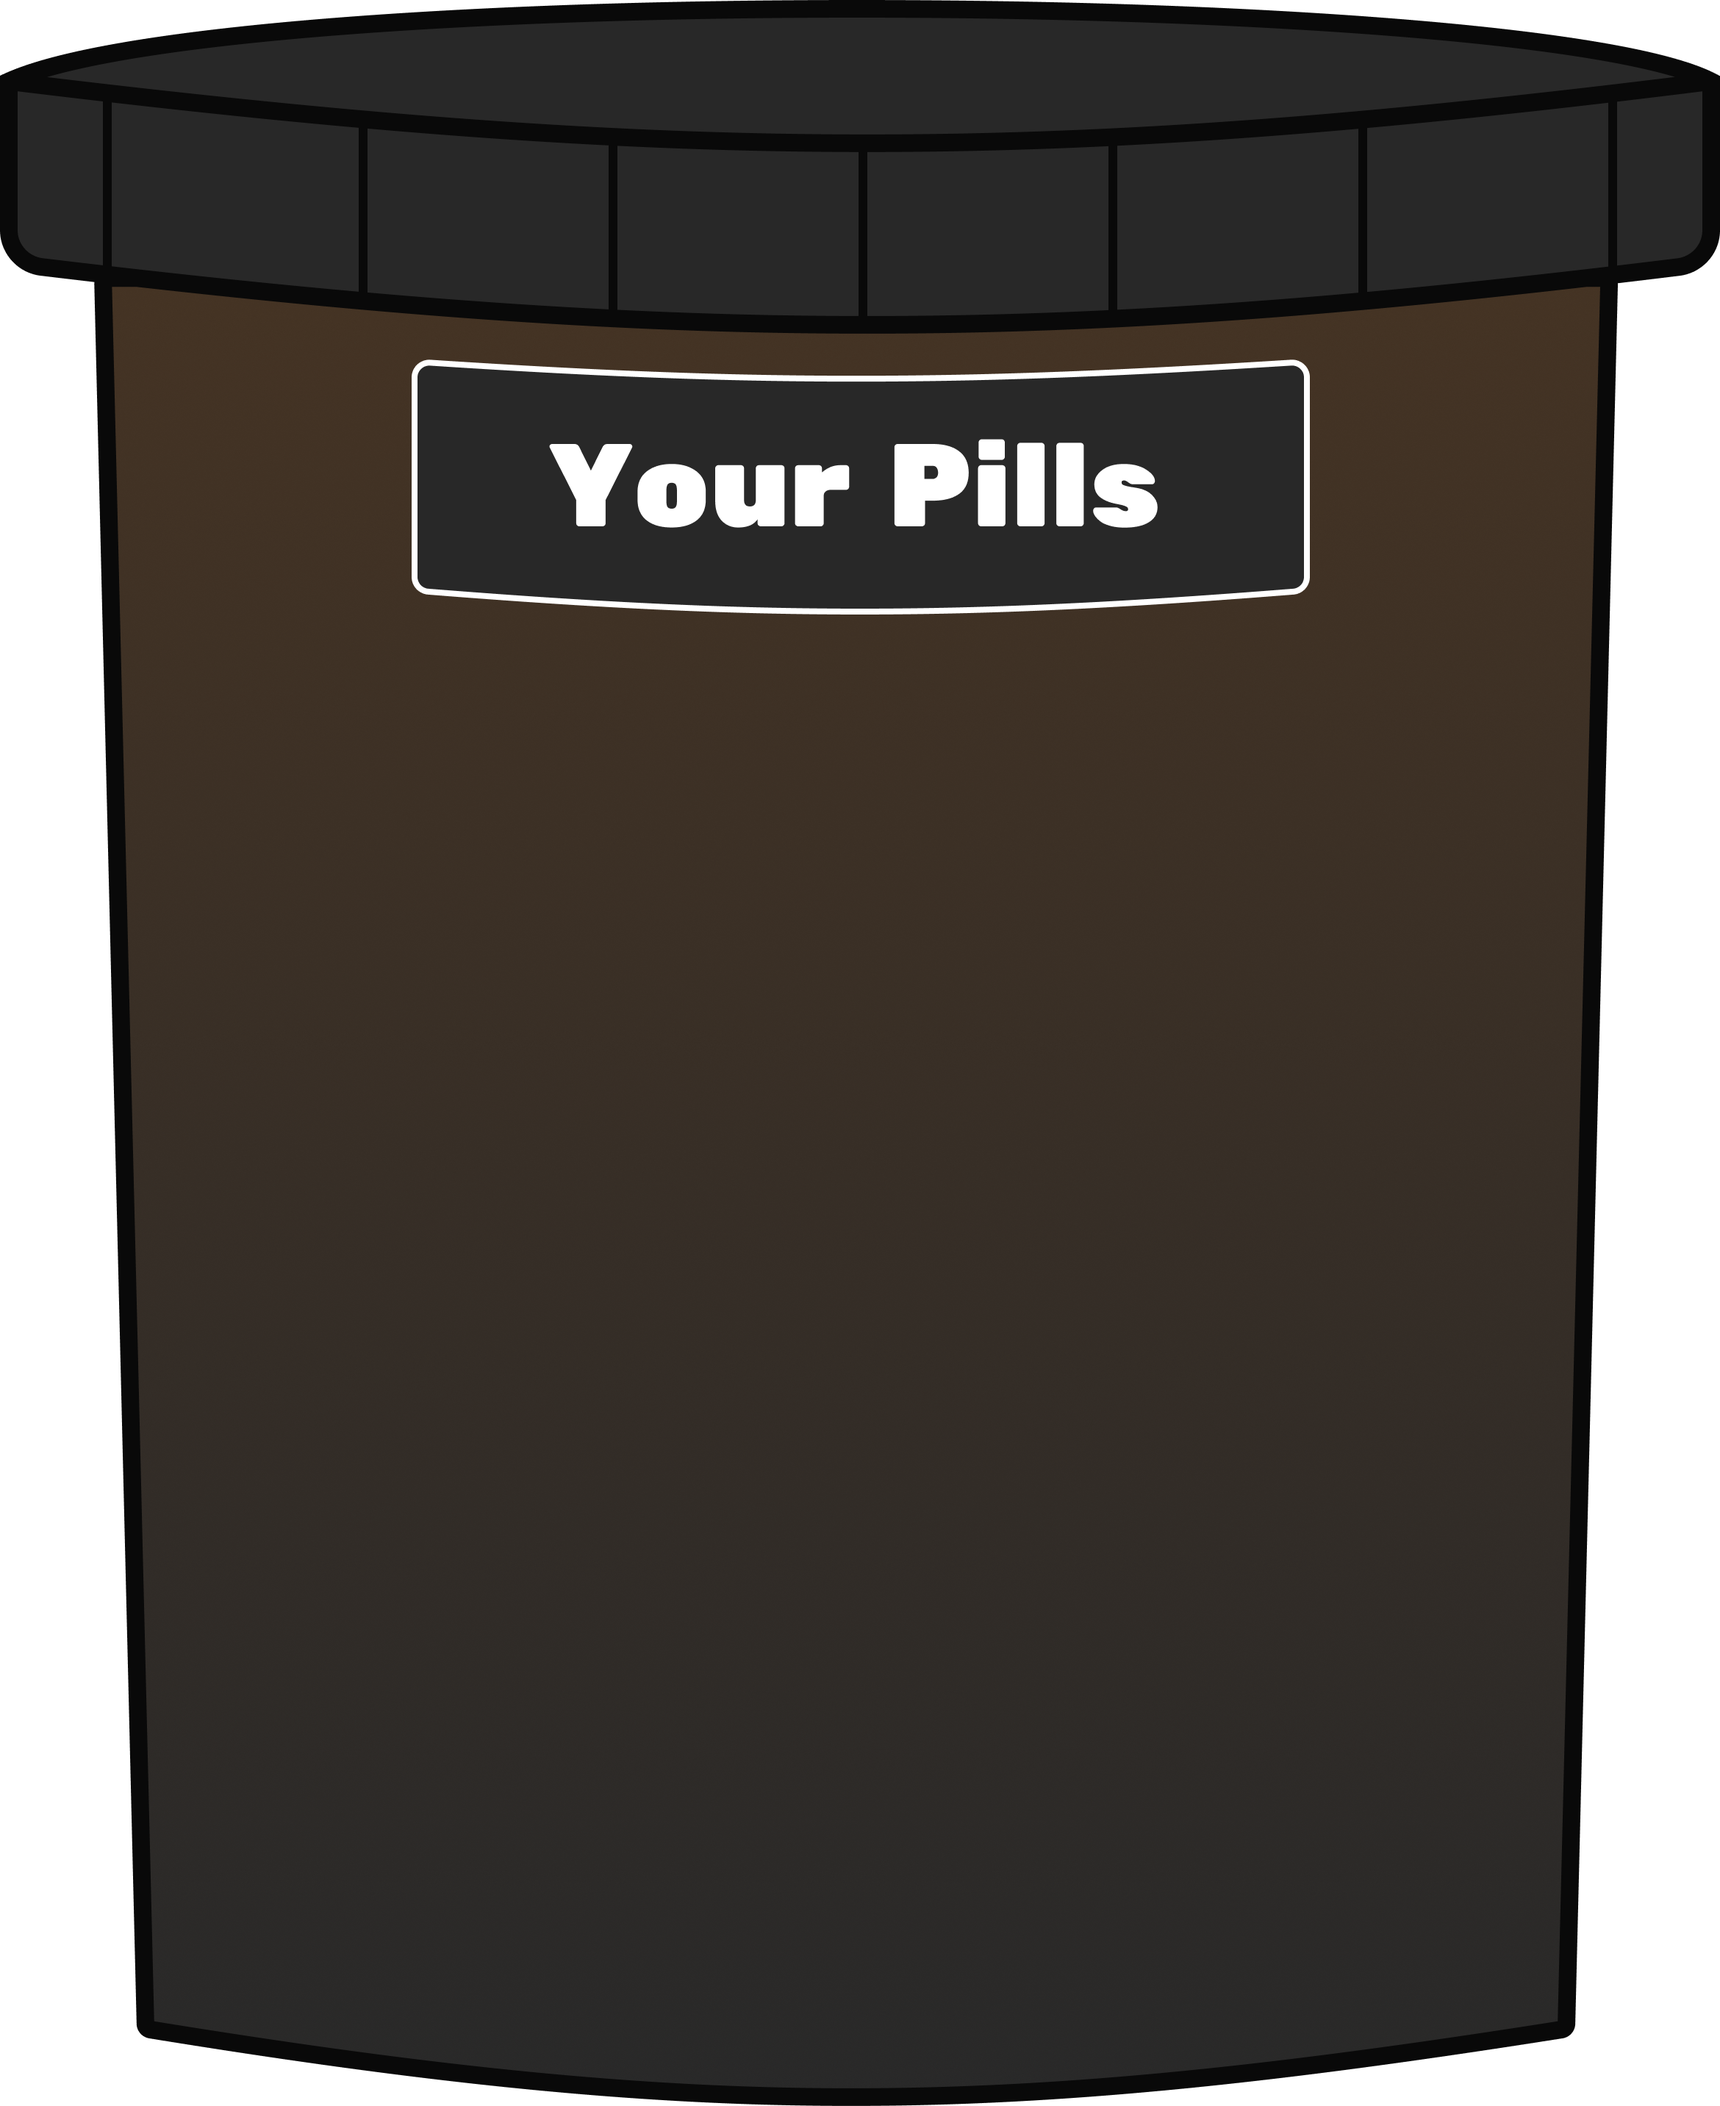
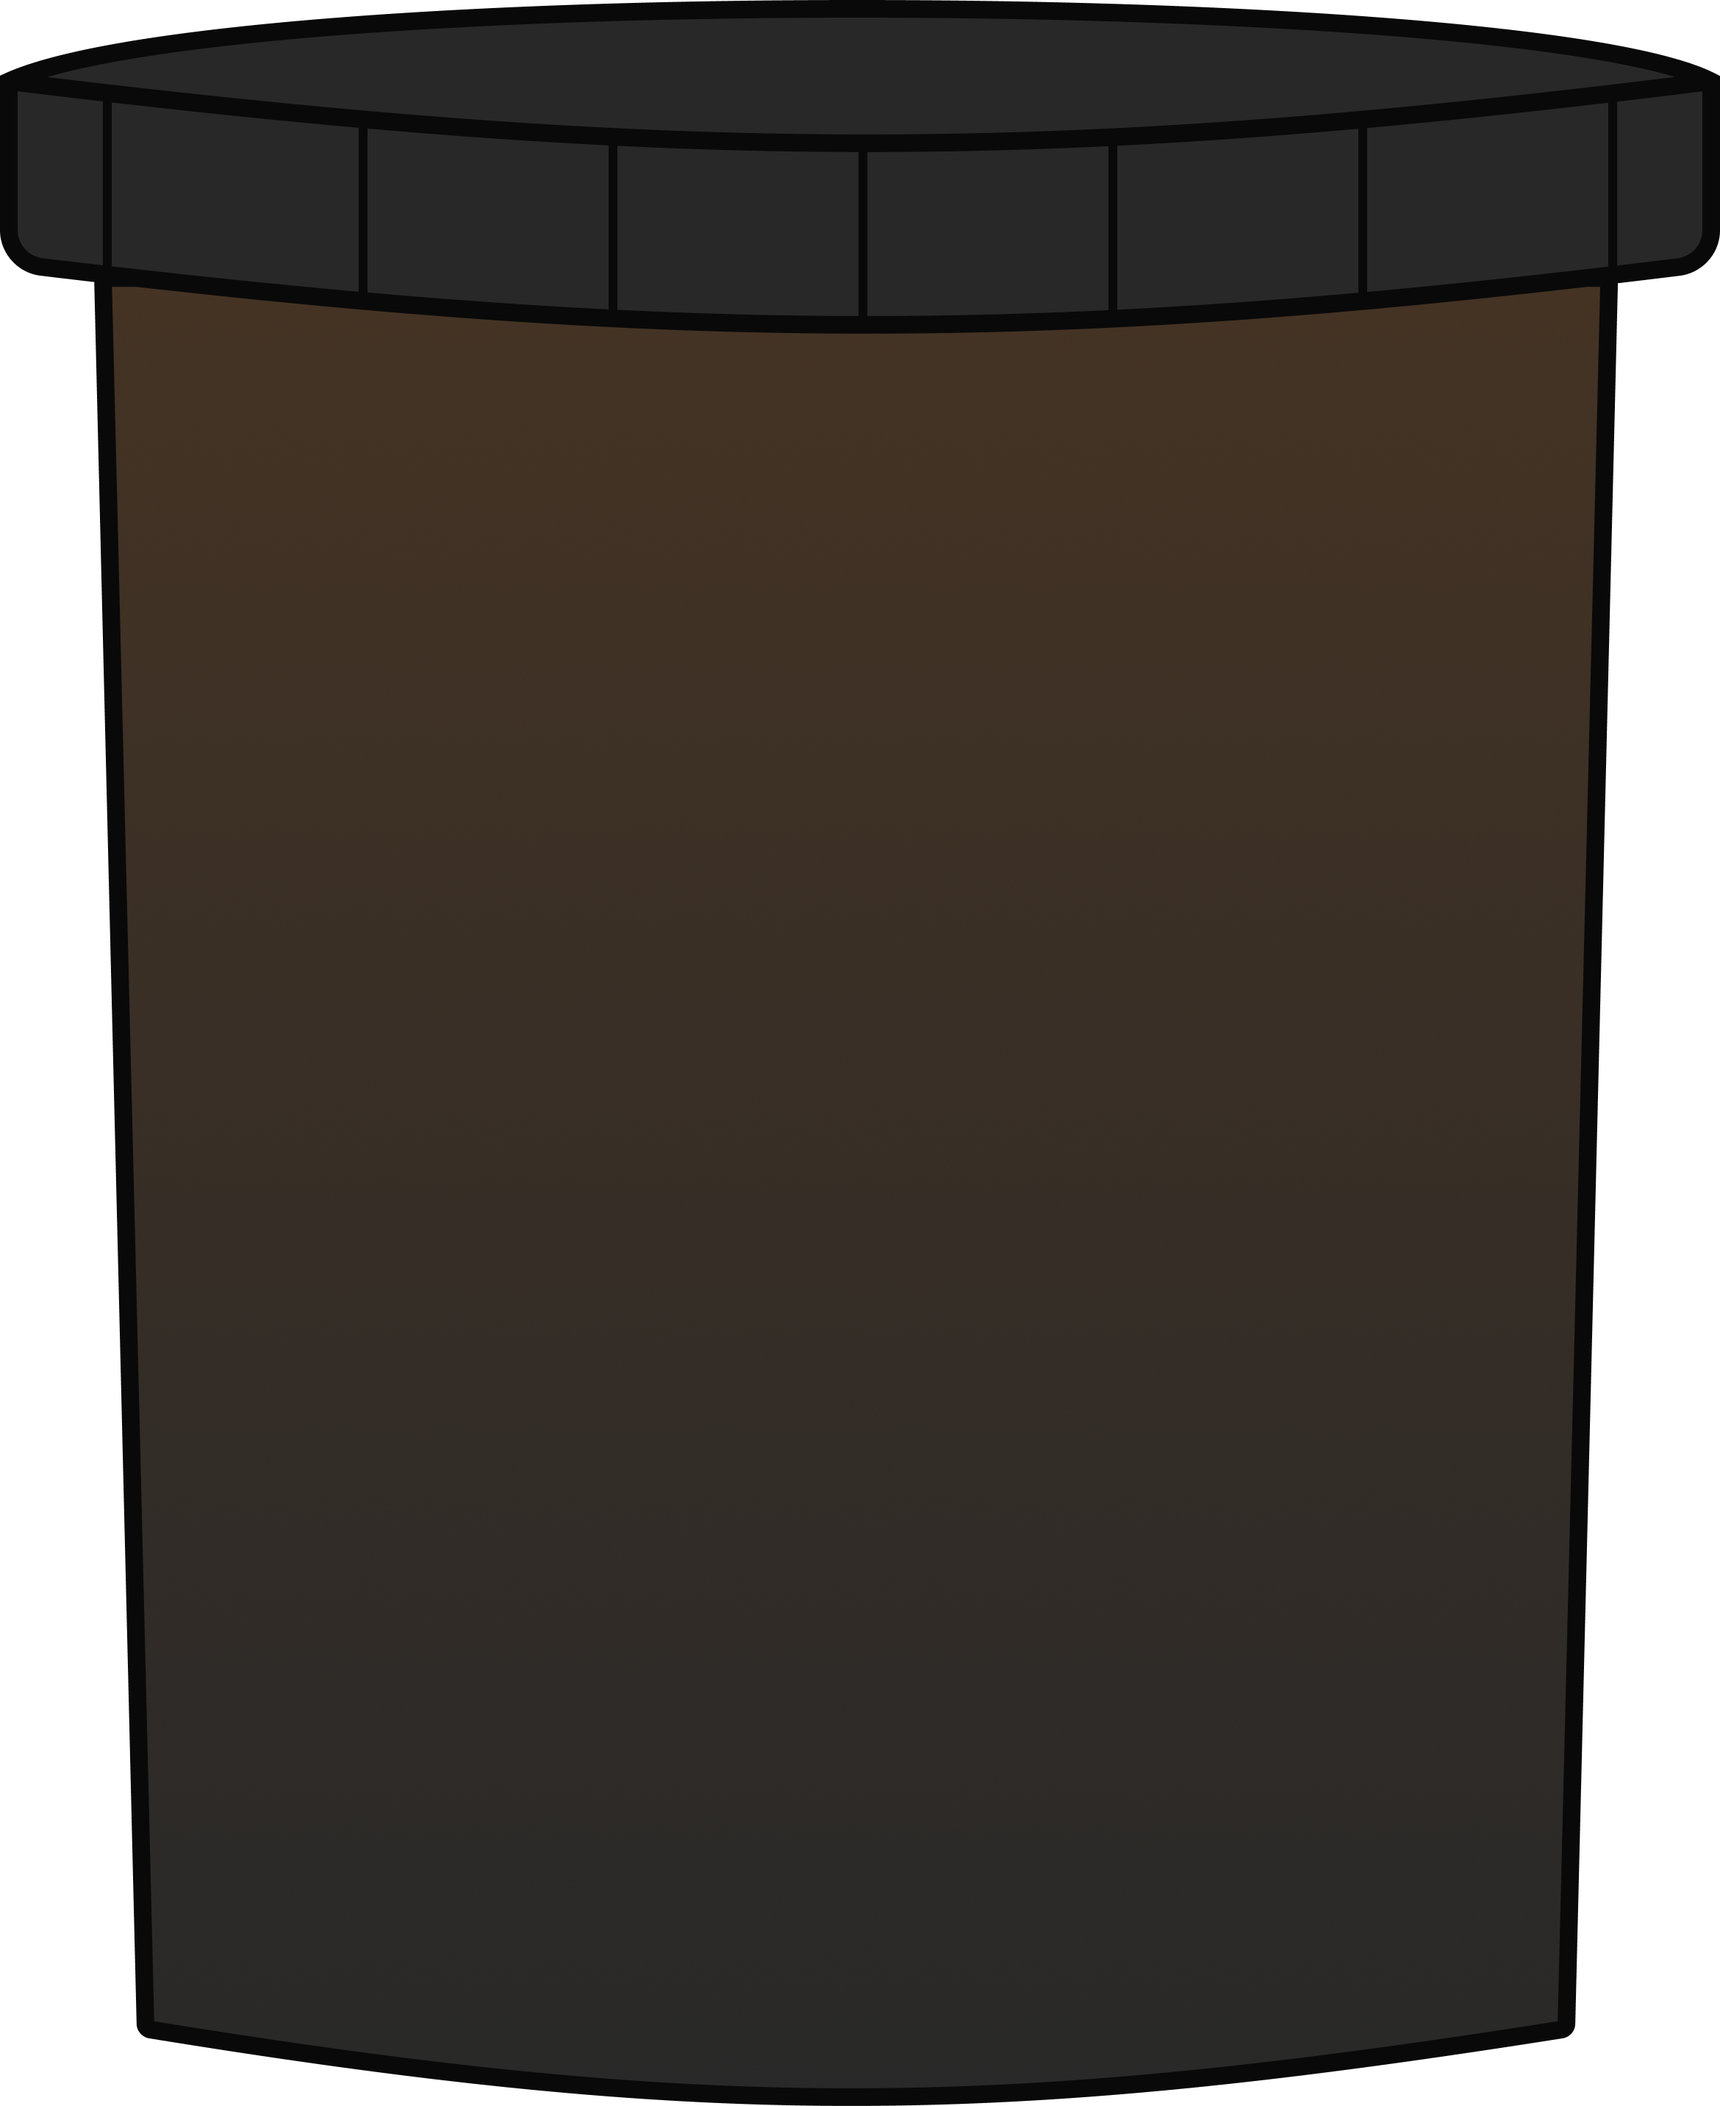
fix title and responsive

Changed region(s): [[0.2184, 0.1553, 0.7799, 0.3106]]

diff --git a/app/components/Cup.tsx b/app/components/Cup.tsx
@@ -24,7 +24,7 @@ type CupProps = {
   imgOffsetY?: number;
   imgScale?: number;
 
-  /** micro-corrections en px CSS pour gommer l’écart à droite/bas */
+  /** micro-corrections en px CSS pour gommer l’écart à droite/bas (valeurs défaut) */
   maskInsetLeftCss?: number;
   maskInsetRightCss?: number;
   maskInsetTopCss?: number;
@@ -32,6 +32,9 @@ type CupProps = {
 
   /** Remonte visuellement le bloc sans affecter la logique */
   cupLiftPx?: number;
+
+  /** Permet de masquer le titre interne pour éviter les doublons */
+  showYourPillsTitle?: boolean;
 };
 
 type Pill = {
@@ -44,13 +47,16 @@ type Pill = {
   h: number;
 };
 
+type Insets = { left: number; right: number; top: number; bottom: number };
+type ResponsiveState = { maxWidthPx: number; insets: Insets };
+
 export default function Cup({
   connected,
   onToggleConnect,
   onOpenSettings,
 
   initialPills = 784,
-  pillSrc = "/pillbottle.png",
+  pillSrc = "/orangepill.png",
 
   cupSrc = "/bottle.png",
   cupRimSrc = null,
@@ -72,6 +78,8 @@ export default function Cup({
   maskInsetBottomCss = 70,
 
   cupLiftPx = 24,
+
+  showYourPillsTitle = true,
 }: CupProps) {
   const [pills] = React.useState(initialPills);
   const [selectedChip, setSelectedChip] = React.useState<string | null>(null);
@@ -90,35 +98,102 @@ export default function Cup({
 
   const targetSpriteCount = Math.min(48, Math.max(10, Math.floor(pills / 28)));
 
-  /* ---------------------- Viewport match (1440×800) ---------------------- */
-  const [is1440x800, setIs1440x800] = React.useState(false);
-  React.useEffect(() => {
-    const check = () =>
-      setIs1440x800(window.innerWidth === 1440 && window.innerHeight === 800);
-    check();
-    window.addEventListener("resize", check);
-    return () => window.removeEventListener("resize", check);
-  }, []);
+  /* ---------------------- Responsive presets (plus petits) ---------------------- */
+  const computeResponsive = React.useCallback((): ResponsiveState => {
+    if (typeof window === "undefined") {
+      return {
+        maxWidthPx: 540,
+        insets: {
+          left: maskInsetLeftCss,
+          right: maskInsetRightCss,
+          top: maskInsetTopCss,
+          bottom: maskInsetBottomCss,
+        },
+      };
+    }
+    const w = window.innerWidth;
+    const h = window.innerHeight;
 
-  /* Insets dynamiques : défaut vs. 1440×800 */
-  const insets = React.useMemo(
-    () =>
-      is1440x800
-        ? { left: 20, right: 60, top: 40, bottom: 60 }
-        : {
-            left: maskInsetLeftCss,
-            right: maskInsetRightCss,
-            top: maskInsetTopCss,
-            bottom: maskInsetBottomCss,
-          },
-    [
-      is1440x800,
-      maskInsetLeftCss,
-      maskInsetRightCss,
-      maskInsetTopCss,
-      maskInsetBottomCss,
-    ]
-  );
+    // largeur de base + insets (plus agressifs)
+    let maxWidthPx: number;
+    let insets: Insets = {
+      left: maskInsetLeftCss,
+      right: maskInsetRightCss,
+      top: maskInsetTopCss,
+      bottom: maskInsetBottomCss,
+    };
+
+    // Presets spécifiques
+    if (w >= 2560) {
+      maxWidthPx = 600;
+      insets = { left: 24, right: 72, top: 12, bottom: 72 };
+    } else if (w >= 1920) {
+      maxWidthPx = 540;
+      insets = { left: 24, right: 70, top: 12, bottom: 70 };
+    } else if (w >= 1600) {
+      maxWidthPx = 520;
+      insets = { left: 26, right: 78, top: 12, bottom: 72 };
+    } else if (w === 1440 && h === 900) {
+      maxWidthPx = 480;
+      insets = { left: 22, right: 62, top: 16, bottom: 62 };
+    } else if (w === 1440 && h === 800) {
+      maxWidthPx = 440;
+      insets = { left: 20, right: 60, top: 40, bottom: 60 }; // spécial
+    } else if (
+      (w === 1366 && h === 768) ||
+      (w >= 1360 && w < 1440 && h <= 800)
+    ) {
+      maxWidthPx = 420;
+      insets = { left: 22, right: 60, top: 22, bottom: 60 };
+    } else if (w >= 1280 && w < 1360) {
+      maxWidthPx = 400;
+      insets = { left: 22, right: 60, top: 20, bottom: 60 };
+    } else if (w >= 1024 && w < 1280) {
+      maxWidthPx = 360;
+      insets = { left: 20, right: 56, top: 18, bottom: 56 };
+    } else {
+      // fallback desktop
+      maxWidthPx = 520;
+      insets = {
+        left: maskInsetLeftCss,
+        right: maskInsetRightCss,
+        top: maskInsetTopCss,
+        bottom: maskInsetBottomCss,
+      };
+    }
+
+    // Cap par hauteur visible (écrans "plats") : on garde ~88% de la hauteur
+    const ratio = vbWidth / vbHeight; // l: h
+    const maxWidthByHeight = Math.floor(h * 0.88 * ratio);
+    if (maxWidthByHeight < maxWidthPx) {
+      maxWidthPx = maxWidthByHeight;
+      // quand on réduit par la hauteur, resserre un peu les insets pour éviter les débords visuels
+      insets = {
+        left: Math.max(16, insets.left - 4),
+        right: Math.max(48, insets.right - 6),
+        top: Math.max(10, insets.top - 2),
+        bottom: Math.max(50, insets.bottom - 4),
+      };
+    }
+
+    return { maxWidthPx, insets };
+  }, [
+    maskInsetLeftCss,
+    maskInsetRightCss,
+    maskInsetTopCss,
+    maskInsetBottomCss,
+    vbWidth,
+    vbHeight,
+  ]);
+
+  const [resp, setResp] = React.useState<ResponsiveState>(computeResponsive);
+
+  React.useEffect(() => {
+    const onResize = () => setResp(computeResponsive());
+    onResize();
+    window.addEventListener("resize", onResize);
+    return () => window.removeEventListener("resize", onResize);
+  }, [computeResponsive]);
 
   /* ---------------------- Mask build ---------------------- */
   const rebuildMaskCanvas = React.useCallback(() => {
@@ -147,10 +222,10 @@ export default function Cup({
     ctx.setTransform(pxPerCssX, 0, 0, pxPerCssY, 0, 0);
     ctx.scale(Wcss / vbWidth, Hcss / vbHeight);
 
-    const insetL = (insets.left * vbWidth) / Wcss;
-    const insetR = (insets.right * vbWidth) / Wcss;
-    const insetT = (insets.top * vbHeight) / Hcss;
-    const insetB = (insets.bottom * vbHeight) / Hcss;
+    const insetL = (resp.insets.left * vbWidth) / Wcss;
+    const insetR = (resp.insets.right * vbWidth) / Wcss;
+    const insetT = (resp.insets.top * vbHeight) / Hcss;
+    const insetB = (resp.insets.bottom * vbHeight) / Hcss;
 
     ctx.clearRect(0, 0, vbWidth, vbHeight);
     ctx.imageSmoothingEnabled = true;
@@ -165,7 +240,14 @@ export default function Cup({
 
     maskCanvasRef.current = canvas;
     setMaskReady(true);
-  }, [vbWidth, vbHeight, insets.left, insets.right, insets.top, insets.bottom]);
+  }, [
+    vbWidth,
+    vbHeight,
+    resp.insets.left,
+    resp.insets.right,
+    resp.insets.top,
+    resp.insets.bottom,
+  ]);
 
   const loadMaskImage = React.useCallback(() => {
     if (!maskSrc) return;
@@ -350,7 +432,7 @@ export default function Cup({
         ref={containerRef}
         className="relative w-full mx-auto"
         style={{
-          maxWidth: is1440x800 ? "480px" : "560px", // ← plus petit en 1440×800
+          maxWidth: `${resp.maxWidthPx}px`,
           marginTop: `-${cupLiftPx}px`,
           aspectRatio: `${vbWidth} / ${vbHeight}`,
         }}
@@ -426,7 +508,18 @@ export default function Cup({
               </>
             ) : (
               <>
-                <div className="mb-4 text-4xl">Your Pills</div>
+                {showYourPillsTitle && (
+                  <div className="mb-4 text-4xl">
+                    {" "}
+                    <NextImage
+                      src={"/title.png"}
+                      alt="Your Pills"
+                      width={300}
+                      height={300}
+                      className="object-contain"
+                    />
+                  </div>
+                )}
 
                 <p className="text-[100px] font-extrabold leading-none text-[#FF6600] drop-shadow-[0_2px_0_rgba(0,0,0,0.45)]">
                   {new Intl.NumberFormat("en-US").format(pills)}
